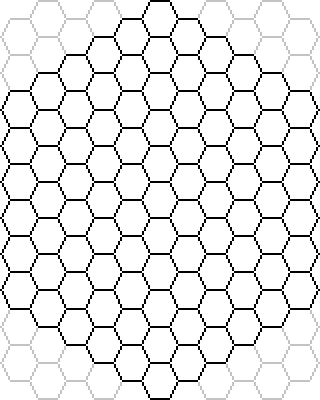
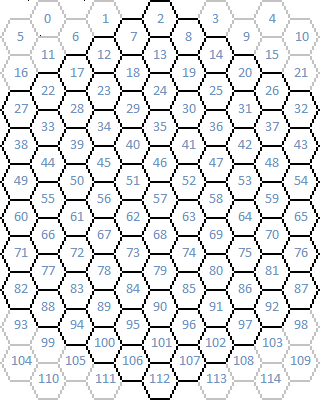
++ casas visiveis Fixed

diff --git a/AIWar/Form1.cs b/AIWar/Form1.cs
@@ -14,30 +14,6 @@ namespace AIWar
 	public partial class Form1 : Form
 	{
 		#region "Properties, Globals"
-		[Obsolete]
-		public int[,] GameMatrix = new int[21, 6] {
-			{  0, 0, 1, 0, 0, 0 },
-			{0, 0, 3, 3, 0, 0 },
-			{  0, 2, 2, 2, 0, 0 },
-			{0, 0, 3, 3, 0, 0 },
-			{  0, 0, 2, 0, 0, 0 },
-			{0, 0, 0, 0, 0, 0 },
-			{  0, 0, 0, 0, 0, 0 },
-			{0, 0, 0, 0, 0, 0 },
-			{  0, 0, 0, 0, 0, 0 },
-			{0, 0, 0, 0, 0, 0 },
-			{  0, 0, 0, 0, 0, 0 },
-			{0, 0, 0, 0, 0, 0 },
-			{  0, 0, 0, 0, 0, 0 },
-			{0, 0, 0, 0, 0, 0 },
-			{  0, 0, 0, 0, 0, 0 },
-			{0, 0, 0, 0, 0, 0 },
-			{  0, 0, 0, 0, 0, 0 },
-			{0, 0, 6, 6, 0, 0 },
-			{  0, 5, 5, 5, 0, 0 },
-			{0, 0, 6, 6, 0, 0 },
-			{  0, 0, 4, 0, 0, 0 }
-		};
 		public int[] TabuleiroVetor = new int[115] {
 			  0, 0, 1, 0, 0, 
 			0, 0, 3, 3, 0, 0,
@@ -77,41 +53,22 @@ namespace AIWar
 
 		#region "Events"
         private void PecaClick(object sender, EventArgs e){
+            // primeira desmarca tudo
+            clearAllBlink();
+
+            // marca a peca clicada
             PictureBox peca = (PictureBox)sender;
-            //MessageBox.Show(peca.Name + " Click");
-
-            // primeira limpa todas as pecas previamente marcadas
-            if (posicaoAtual > 0) {
-                PictureBox pecaAntiga = (PictureBox)this.Controls.Find("peca" + posicaoAtual.ToString(), true).First();
-                if (pecaAntiga != null){
-                    int posicaoAntiga = Convert.ToInt32(pecaAntiga.Name.Replace("peca", ""));
-                    pecaAntiga.Image = GetImage(posicaoAntiga);
-                }
-            }
-
             int position = Convert.ToInt32(peca.Name.Replace("peca", ""));
             posicaoAtual = position;
-
             peca.Image = GetBlinkedImage(position);
-
-            Core.Core core = new Core.Core();
-            MessageBox.Show("getVisaoDiagonalMaior: " + ListaItens(core.getVisaoDiagonalMaior(TabuleiroVetor, position)));
-            MessageBox.Show("getVisaoDiagonalMenor: " + ListaItens(core.getVisaoDiagonalMenor(TabuleiroVetor, position)));
-            MessageBox.Show("getVisaoVertical: " + ListaItens(core.getVisaoVertical(TabuleiroVetor, position)));
-            
-
-        }
-
-        private String ListaItens(int[] Tabuleiro)
-        {
-            String lista = "";
-
-            foreach (int num in Tabuleiro)
-            {
-                lista += num.ToString() + " ";
-            }
-
-            return lista;
+                        
+            // e então marca aquelas no campo de visao
+            foreach(int i in Core.Core.getVisaoDiagonalMaior(TabuleiroVetor, position))
+                getPeca(i).Image = GetBlinkedImage(i);
+            foreach(int i in Core.Core.getVisaoDiagonalMenor(TabuleiroVetor, position))
+                getPeca(i).Image = GetBlinkedImage(i);
+            foreach(int i in Core.Core.getVisaoVertical(TabuleiroVetor, position))
+                getPeca(i).Image = GetBlinkedImage(i);
         }
 
         private void PecaHover(object sender, EventArgs e){
@@ -120,6 +77,7 @@ namespace AIWar
 
 
         }
+
         private void PecaLeave(object sender, EventArgs e){
             PictureBox peca = (PictureBox)sender;
             peca.BackColor = TransparencyKey;
@@ -161,10 +119,11 @@ namespace AIWar
 			return false;
 		}
 
-        protected Bitmap GetBlinkedImage(int i)
+        private Bitmap GetBlinkedImage(int i)
         {
             switch (TabuleiroVetor[i])
             {
+                case 0: return Resources.casaVisivel;
                 case 1: return Resources.tokenBlackNeutron1;
                 case 2: return Resources.tokenBlackEletron1;
                 case 3: return Resources.tokenBlackPositron1;
@@ -175,7 +134,7 @@ namespace AIWar
 
             return null;
         }
-        protected Bitmap GetImage(int i)
+        private Bitmap GetImage(int i)
         {
             switch (TabuleiroVetor[i])
             {
@@ -190,61 +149,38 @@ namespace AIWar
         }
 		#endregion
 
+        #region "Auxiliar Methods"
+        private PictureBox getPeca(int i)
+        {
+            return (PictureBox)this.Controls.Find("peca" + i.ToString(), true).First();
+        }
 
+        private bool clearAllBlink()
+        {
+            for (int i = 0; i < 115; i++)
+            {
+                PictureBox ipeca = (PictureBox)this.Controls.Find("peca" + i.ToString(), true).First();
+                if (ipeca != null)
+                {
+                    ipeca.Image = GetImage(i);
+                }
 
+            }
+            return false;
+        }
 
+        private String ListaItens(int[] Tabuleiro)
+        {
+            String lista = "";
 
-        [Obsolete("Usar desenhaPecas()")]
-		protected bool Draw() {
-			for (int i = 0; i < 21; i++)
-			{
-				for (int j = 0; j < 6; j++)
-				{
-					if (GameMatrix[i, j] >= 0) {
-						int offsetLeft = 0;
-						int offsetTop = 0;
-						if (i % 2 == 0)
-						{
-							if (j == 5) break;
-							offsetLeft += 28;               // Offset Fixo
-							offsetLeft += j * 56;           // Offset Dinamicamo: i * k
-							offsetTop += 0;                 // Offset Fixo
-							offsetTop += i/2 * 36;          // Offset Dinamicamo: i * k
-						}
-						else
-						{
-							offsetLeft += 0;
-							offsetLeft += j * 56;
-							offsetTop += 18;
-							offsetTop += (int)(i/2) * 36;
-						}
-						
-						PictureBox e = new PictureBox();
-						e.Parent = panel1;
-						e.BackColor = System.Drawing.Color.Transparent;
-						e.Margin = new Padding(0);
-						e.TabIndex = 0;
-						e.Size = new Size(15, 15);
-						e.Location = new Point(offsetLeft + panel1.Left,
-												offsetTop + panel1.Top);
+            foreach (int num in Tabuleiro)
+            {
+                lista += num.ToString() + " ";
+            }
 
-						switch(GameMatrix[i, j]){
-							case 1: e.Image = Resources.tokenBlackNeutron; break;
-							case 2: e.Image = Resources.tokenBlackEletron; break;
-							case 3: e.Image = Resources.tokenBlackPositron; break;
-							case 4: e.Image = Resources.tokenWhiteNeutron; break;
-							case 5: e.Image = Resources.tokenWhiteEletron; break;
-							case 6: e.Image = Resources.tokenWhitePositron; break;
-						}
-						
-						this.panel1.Controls.Add(e);
-					}
-					
+            return lista;
+        }
+        #endregion
 
-				}
-			}
-
-			return false;
-		}
-	}
+    }
 }

diff --git a/AIWar/Core/Core.cs b/AIWar/Core/Core.cs
@@ -5,10 +5,10 @@ using System.Text;
 
 namespace AIWar.Core
 {
-    class Core
+    static public class Core
     {
-        private int[] excludeCasas = {0, 1, 3, 4, 5, 6, 9, 10, 11, 15, 16, 21, 93, 98, 99, 103, 104, 105, 108, 109, 110, 111, 113, 114};
-
+        static private int[] excludeCasas = {0, 1, 3, 4, 5, 6, 9, 10, 11, 15, 16, 21, 93, 98, 99, 103, 104, 105, 108, 109, 110, 111, 113, 114};
+        static private int[] Boundary = { 2, 7, 8, 12, 14, 17, 20, 22, 26, 27, 32, 38, 43, 49, 54, 60, 65, 71, 76, 82, 87, 88, 92, 94, 97, 100, 102, 106, 107, 112 };
 
         /// <summary>
         /// Função auxiliar.
@@ -17,20 +17,28 @@ namespace AIWar.Core
         /// <param name="TabuleiroVetor"></param>
         /// <param name="i"></param>
         /// <returns></returns>
-        private int[] AddCasa(int[] TabuleiroVetor, int i, int step)
+        static private int[] AddCasa(int[] TabuleiroVetor, int i, int step)
         {
             List<int> result = new List<int>();
             
             for(int ii = i-step; ii >= 0; ii -= step){
                 if (TabuleiroVetor[ii] > 0 || excludeCasas.Contains(ii))
                     break;
+                
                 result.Add(ii);
+
+                if (Boundary.Contains(ii))
+                    break;
             }
 
             for(int ii = i+step; ii < 115; ii += step){
                 if (TabuleiroVetor[ii] > 0 || excludeCasas.Contains(ii))
                     break;
+                
                 result.Add(ii);
+                
+                if (Boundary.Contains(ii))
+                    break;
             }
             
             return result.ToArray();
@@ -40,7 +48,7 @@ namespace AIWar.Core
         /// subtrai ou adiciona 11 (5 + 6) ao índice de linha.
         /// </summary>
         /// <returns></returns>
-        public int[] getVisaoVertical(int[] TabuleiroVetor, int i) {
+        static public int[] getVisaoVertical(int[] TabuleiroVetor, int i) {
             return AddCasa(TabuleiroVetor, i, 11);
         }
 
@@ -48,7 +56,8 @@ namespace AIWar.Core
         /// Diagonal Menor: subtrai ou adiciona 5 ao índice da linha.
         /// </summary>
         /// <returns></returns>
-        public int[] getVisaoDiagonalMenor(int[] TabuleiroVetor, int i) {
+        static public int[] getVisaoDiagonalMenor(int[] TabuleiroVetor, int i)
+        {
             return AddCasa(TabuleiroVetor, i, 5);
         }
 
@@ -56,7 +65,7 @@ namespace AIWar.Core
         /// Diagonal Maior: subtrai ou adiciona 6 ao índice da linha.
         /// </summary>
         /// <returns></returns>
-        public int[] getVisaoDiagonalMaior(int[] TabuleiroVetor, int i)
+        static public int[] getVisaoDiagonalMaior(int[] TabuleiroVetor, int i)
         {
             return AddCasa(TabuleiroVetor, i, 6);
         }
